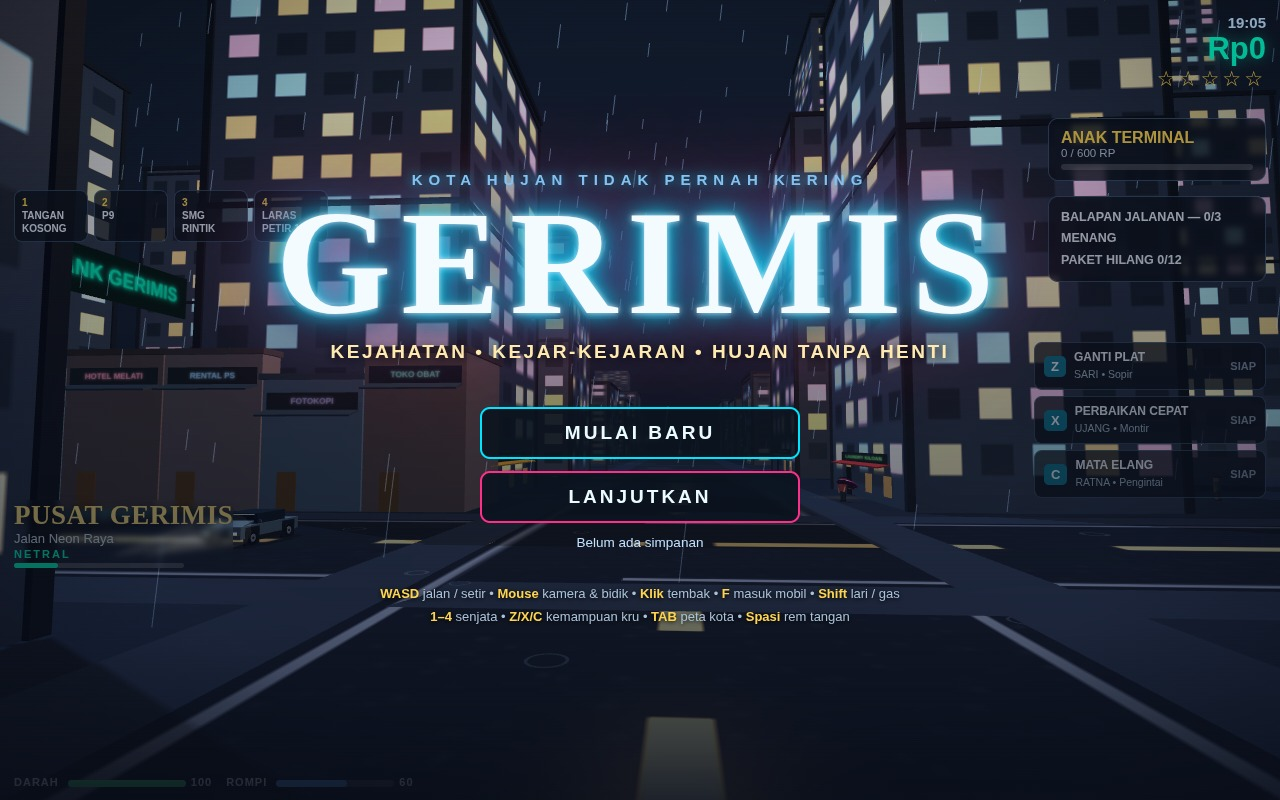
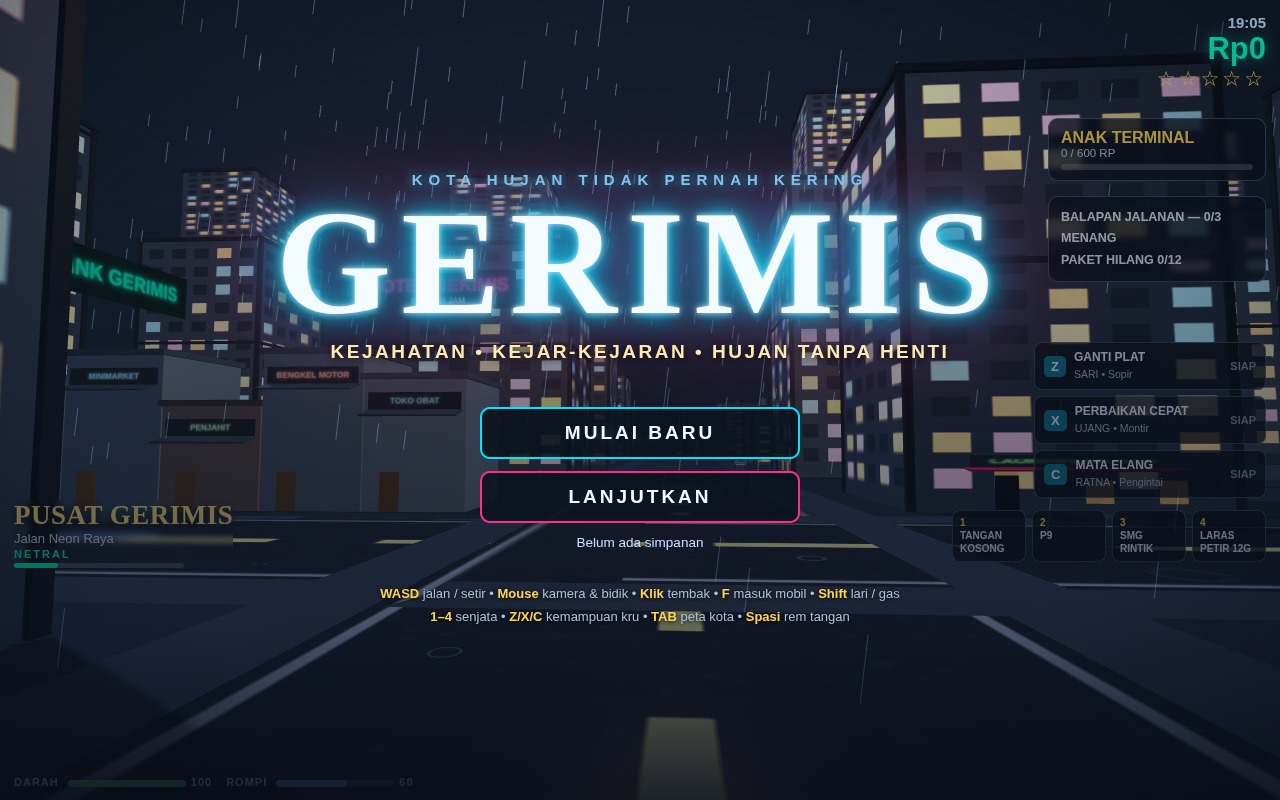
rev7: weapon slots move to bottom-right under the crew-cards column (right edge becomes one action cluster); dispatch panel returns directly under the mission panel; cover/duel/title re-captured

diff --git a/game/index.html b/game/index.html
@@ -28,8 +28,8 @@
   #mSegs .seg.done { background: #00ffc8; }
   #mSegs .seg.now { background: #ffd54f; }
 
-  /* dispatch panel — under the mission + weapon row, red-ruled, hidden until wanted */
-  #dispatchPanel { border-left: 4px solid #ff3355; display: none; left: 14px; top: 268px; width: 342px; }
+  /* dispatch panel — directly under the mission panel, red-ruled, hidden until wanted */
+  #dispatchPanel { border-left: 4px solid #ff3355; display: none; left: 14px; top: 196px; width: 342px; }
   #dHead { color: #ff8fa5; font-size: 12px; font-weight: 900; letter-spacing: 1.2px; }
   .dunit { display: flex; font-size: 12.5px; font-weight: 700; justify-content: space-between; margin-top: 5px; }
   .dtac { background: #274b73; border-radius: 4px; color: #bfe0ff; font-size: 11px; padding: 0 6px; }
@@ -65,10 +65,14 @@
   #rankFill { background: #ffd54f; border-radius: 3px; height: 100%; width: 0%; }
   #activityPanel { font-size: 12.5px; font-weight: 700; line-height: 1.7; right: 14px; top: 196px; width: 218px; }
 
-  /* weapon slots — under the mission panel, top-left (owner: the
-     right-edge stack blocked the view and got covered itself);
-     crew cards stay on the right edge under the activity panel */
-  #weaponSlots { display: flex; gap: 6px; left: 14px; position: fixed; top: 190px; z-index: 5; }
+  /* weapon slots — bottom-right, under the crew-cards column
+     (owner: the right edge becomes one action cluster — rank and
+     activity panels, crew cards, then weapons — and the left
+     column stops stacking three-deep); crew cards sit on the
+     right edge under the activity panel, bottom edge y=498 at
+     1280x800, so the row starts at 510 and stays clear of the
+     driving-only speedometer in the bottom-right corner */
+  #weaponSlots { display: flex; gap: 6px; position: fixed; right: 14px; top: 510px; z-index: 5; }
   .wslot { background: rgba(10,16,26,0.78); border: 1px solid rgba(120,180,240,0.3); border-radius: 8px; font-size: 10px; padding: 6px 7px; width: 74px; }
   .wslot.active { border-color: #ffd54f; box-shadow: 0 0 10px rgba(255,213,79,0.4); }
   .wslot.locked { opacity: 0.38; }
